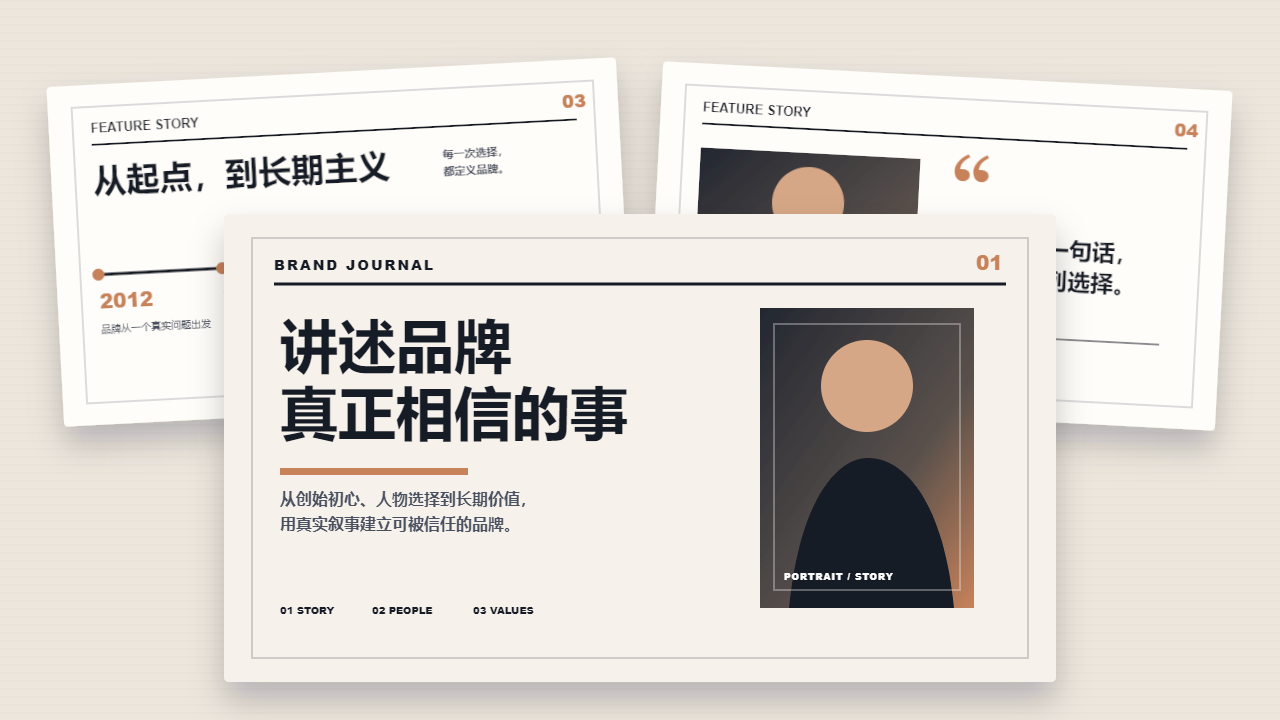
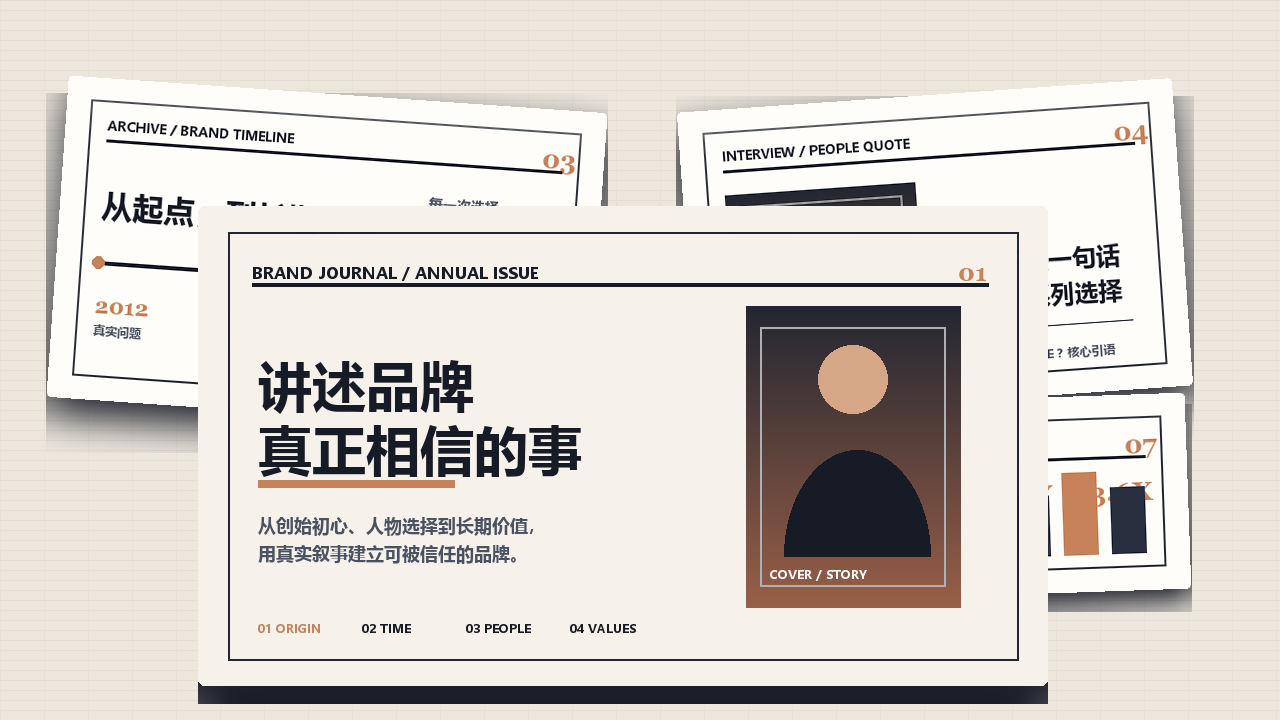
feat(ppt-template): 重构品牌故事编辑叙事模板

Changed region(s): [[0.0312, 0.0611, 0.9688, 0.9778], [0.5625, 0.3972, 0.7812, 0.8556], [0.625, 0.4889, 0.6562, 0.5194]]

diff --git a/ppt-ai-app/src/ppt-exporter.js b/ppt-ai-app/src/ppt-exporter.js
@@ -14927,10 +14927,11 @@ function brandIdentityCompactText(text, fallback, maxLength) {
 function brandStoryEditorialDecorationsXml({ visual, index, slide, total }) {
   const scene = brandStoryEditorialExportScene({ slide, index, total });
   const common = lineFrameShapeXml({ id: 400, name: "Editorial Paper Frame", x: 292608, y: 164592, cx: 8558784, cy: 4814316, stroke: blendHexColor(visual.primary, visual.background, 0.38), width: 11430 })
-    + textShapeXml({ id: 401, name: "Editorial Masthead", x: 475488, y: 266700, cx: 2438400, cy: 213360, text: scene.kicker, size: 700, bold: true, color: visual.title })
+    + textShapeXml({ id: 401, name: "Editorial Masthead", x: 475488, y: 266700, cx: 3048000, cy: 213360, text: `${scene.kicker} / ${scene.sectionLabel}`, size: 700, bold: true, color: visual.title })
     + textShapeXml({ id: 402, name: "Editorial Folio", x: 8052120, y: 266700, cx: 396240, cy: 213360, text: scene.folio, size: 900, bold: true, color: visual.accent })
     + rectShapeXml({ id: 403, name: "Editorial Masthead Rule", x: 475488, y: 533400, cx: 8193024, cy: 22860, fill: visual.title })
-    + textShapeXml({ id: 404, name: "Editorial Running Title", x: 475488, y: 4655820, cx: 2133600, cy: 182880, text: scene.deckTitle, size: 600, bold: true, color: blendHexColor(visual.body, visual.background, 0.28) });
+    + textShapeXml({ id: 404, name: "Editorial Running Title", x: 475488, y: 4655820, cx: 2133600, cy: 182880, text: scene.deckTitle, size: 600, bold: true, color: blendHexColor(visual.body, visual.background, 0.28) })
+    + brandStoryEditorialSectionIndexXml({ visual, scene });
   if (scene.role === "cover") return common + brandStoryEditorialCoverXml({ visual, scene });
   if (scene.role === "opener") return common + brandStoryEditorialOpenerXml({ visual, scene });
   if (scene.role === "timeline") return common + brandStoryEditorialTimelineXml({ visual, scene });
@@ -14945,8 +14946,8 @@ function brandStoryEditorialCoverXml({ visual, scene }) {
   return textShapeXml({ id: 410, name: "Editorial Cover Title", x: 640080, y: 1219200, cx: 3962400, cy: 1280160, text: scene.title, size: 3600, bold: true, color: visual.title })
     + rectShapeXml({ id: 411, name: "Editorial Cover Accent Rule", x: 640080, y: 2743200, cx: 2133600, cy: 45720, fill: visual.accent })
     + textShapeXml({ id: 412, name: "Editorial Cover Lead", x: 640080, y: 2872740, cx: 3200400, cy: 731520, text: scene.lead, size: 980, bold: false, color: visual.body })
-    + brandStoryEditorialPortraitXml({ visual, x: 5257800, y: 800100, cx: 2773680, cy: 3657600, id: 420 })
-    + ["01  STORY", "02  PEOPLE", "03  VALUES"].map((label, itemIndex) => textShapeXml({ id: 430 + itemIndex, name: `Editorial Cover Index ${itemIndex + 1}`, x: 640080 + itemIndex * 914400, y: 4114800, cx: 822960, cy: 182880, text: label, size: 620, bold: true, color: visual.title })).join("");
+    + brandStoryEditorialPortraitXml({ visual, x: 5257800, y: 800100, cx: 2773680, cy: 3657600, id: 420, caption: brandStoryEditorialPhotoCaption(scene.role) })
+    + scene.sections.slice(0, 3).map((item, itemIndex) => textShapeXml({ id: 430 + itemIndex, name: `Editorial Cover Index ${itemIndex + 1}`, x: 640080 + itemIndex * 914400, y: 4114800, cx: 822960, cy: 182880, text: item.label, size: 620, bold: true, color: item.active ? visual.accent : visual.title })).join("");
 }
 
 function brandStoryEditorialOpenerXml({ visual, scene }) {
@@ -14974,12 +14975,12 @@ function brandStoryEditorialTimelineXml({ visual, scene }) {
 }
 
 function brandStoryEditorialInterviewXml({ visual, scene }) {
-  return brandStoryEditorialPortraitXml({ visual, x: 640080, y: 800100, cx: 3352800, cy: 3657600, id: 420 })
+  return brandStoryEditorialPortraitXml({ visual, x: 640080, y: 800100, cx: 3352800, cy: 3657600, id: 420, caption: brandStoryEditorialPhotoCaption(scene.role) })
     + textShapeXml({ id: 410, name: "Editorial Interview Quote Mark", x: 4495800, y: 777240, cx: 762000, cy: 762000, text: "“", size: 6800, bold: true, color: visual.accent })
     + textShapeXml({ id: 411, name: "Editorial Interview Title", x: 4495800, y: 1447800, cx: 3505200, cy: 731520, text: scene.title, size: 2250, bold: true, color: visual.title })
     + textShapeXml({ id: 412, name: "Editorial Interview Quote", x: 4495800, y: 2286000, cx: 3505200, cy: 1371600, text: scene.lead, size: 1450, bold: true, color: visual.title })
     + rectShapeXml({ id: 413, name: "Editorial Interview Byline Rule", x: 4495800, y: 3962400, cx: 3505200, cy: 22860, fill: visual.title })
-    + textShapeXml({ id: 414, name: "Editorial Interview Byline", x: 4495800, y: 4076700, cx: 2438400, cy: 182880, text: "人物专访 · 核心观点", size: 650, bold: true, color: visual.body });
+    + textShapeXml({ id: 414, name: "Editorial Interview Byline", x: 4495800, y: 4076700, cx: 3048000, cy: 182880, text: `${scene.sectionLabel} · ${brandStoryEditorialByline(scene.role)}`, size: 650, bold: true, color: visual.body });
 }
 
 function brandStoryEditorialManifestoXml({ visual, scene }) {
@@ -14998,12 +14999,12 @@ function brandStoryEditorialManifestoXml({ visual, scene }) {
 }
 
 function brandStoryEditorialFeatureXml({ visual, scene }) {
-  return brandStoryEditorialPortraitXml({ visual, x: 640080, y: 800100, cx: 4572000, cy: 3505200, id: 420 })
+  return brandStoryEditorialPortraitXml({ visual, x: 640080, y: 800100, cx: 4572000, cy: 3505200, id: 420, caption: brandStoryEditorialPhotoCaption(scene.role) })
     + textShapeXml({ id: 410, name: "Editorial Feature Title", x: 5486400, y: 914400, cx: 2743200, cy: 731520, text: scene.title, size: 2250, bold: true, color: visual.title })
     + textShapeXml({ id: 411, name: "Editorial Feature Lead", x: 5486400, y: 1798320, cx: 2743200, cy: 731520, text: scene.lead, size: 900, bold: true, color: visual.body })
     + textShapeXml({ id: 412, name: "Editorial Feature Copy", x: 5486400, y: 2667000, cx: 2743200, cy: 1371600, text: scene.bullets.join("\n\n"), size: 720, bold: false, color: visual.body })
     + rectShapeXml({ id: 413, name: "Editorial Feature Caption Rule", x: 640080, y: 4427220, cx: 4572000, cy: 22860, fill: visual.title })
-    + textShapeXml({ id: 414, name: "Editorial Feature Caption", x: 640080, y: 4495800, cx: 3048000, cy: 152400, text: "图像记录品牌与人的真实连接", size: 600, bold: false, color: visual.body });
+    + textShapeXml({ id: 414, name: "Editorial Feature Caption", x: 640080, y: 4495800, cx: 3048000, cy: 152400, text: brandStoryEditorialByline(scene.role), size: 600, bold: false, color: visual.body });
 }
 
 function brandStoryEditorialEvidenceXml({ visual, scene }) {
@@ -15023,16 +15024,16 @@ function brandStoryEditorialClosingXml({ visual, scene }) {
   return rectShapeXml({ id: 410, name: "Editorial Closing Accent", x: 4236720, y: 1219200, cx: 685800, cy: 60960, fill: visual.accent })
     + textShapeXml({ id: 411, name: "Editorial Closing Title", x: 1371600, y: 1752600, cx: 6400800, cy: 1066800, text: scene.title, size: 3500, bold: true, color: visual.title })
     + textShapeXml({ id: 412, name: "Editorial Closing Quote", x: 2133600, y: 3048000, cx: 4876800, cy: 762000, text: scene.lead, size: 1250, bold: true, color: visual.body })
-    + textShapeXml({ id: 413, name: "Editorial Closing Label", x: 3352800, y: 4114800, cx: 2438400, cy: 182880, text: "THE STORY CONTINUES", size: 650, bold: true, color: visual.title });
+    + textShapeXml({ id: 413, name: "Editorial Closing Label", x: 3352800, y: 4114800, cx: 2743200, cy: 182880, text: `${scene.sectionLabel} / STORY CONTINUES`, size: 650, bold: true, color: visual.title });
 }
 
-function brandStoryEditorialPortraitXml({ visual, x, y, cx, cy, id }) {
+function brandStoryEditorialPortraitXml({ visual, x, y, cx, cy, id, caption }) {
   const skin = blendHexColor(visual.accent, "F1D0B6", 0.62);
   return solidShapeXml({ id, name: "Editorial Portrait Field", x, y, cx, cy, fill: blendHexColor(visual.primary, "59534D", 0.44) })
     + solidShapeXml({ id: id + 1, name: "Editorial Portrait Head", geom: "ellipse", x: x + Math.round(cx * 0.34), y: y + Math.round(cy * 0.12), cx: Math.round(cx * 0.28), cy: Math.round(cx * 0.28), fill: skin })
     + solidShapeXml({ id: id + 2, name: "Editorial Portrait Body", geom: "roundRect", x: x + Math.round(cx * 0.18), y: y + Math.round(cy * 0.44), cx: Math.round(cx * 0.64), cy: Math.round(cy * 0.62), fill: blendHexColor(visual.primary, "15171D", 0.28) })
     + lineFrameShapeXml({ id: id + 3, name: "Editorial Portrait Crop Frame", x: x + Math.round(cx * 0.07), y: y + Math.round(cy * 0.07), cx: Math.round(cx * 0.86), cy: Math.round(cy * 0.86), stroke: "FFFFFF", width: 11430, transparency: 24000 })
-    + textShapeXml({ id: id + 4, name: "Editorial Portrait Caption", x: x + Math.round(cx * 0.10), y: y + Math.round(cy * 0.86), cx: Math.round(cx * 0.70), cy: 152400, text: "PORTRAIT / STORY", size: 560, bold: true, color: "FFFFFF" });
+    + textShapeXml({ id: id + 4, name: "Editorial Portrait Caption", x: x + Math.round(cx * 0.10), y: y + Math.round(cy * 0.86), cx: Math.round(cx * 0.70), cy: 152400, text: caption || "FIELD / BRAND", size: 560, bold: true, color: "FFFFFF" });
 }
 
 function brandStoryEditorialExportScene({ slide, index, total }) {
@@ -15054,12 +15055,74 @@ function brandStoryEditorialExportScene({ slide, index, total }) {
   return {
     role,
     folio: String(index + 1).padStart(2, "0"),
-    kicker: role === "cover" ? "BRAND JOURNAL" : role === "closing" ? "NEXT CHAPTER" : "FEATURE STORY",
+    kicker: brandStoryEditorialKicker(role),
+    sectionLabel: brandStoryEditorialSectionLabel(role),
     title: brandStoryEditorialExportCompactText(slide?.title, index === 0 ? "品牌的下一段故事" : "品牌故事", role === "cover" ? 34 : 30),
     deckTitle: brandStoryEditorialExportCompactText(slide?.title, "品牌故事", 16),
     lead: brandStoryEditorialExportCompactText(bullets[0], "以真实的人、时间和选择，讲述品牌如何形成长期价值。", role === "interview" ? 54 : 48),
     bullets: bullets.slice(0, 4).map((item) => brandStoryEditorialExportCompactText(item, "", 46)),
+    sections: brandStoryEditorialSections(role),
   };
+}
+
+function brandStoryEditorialSectionIndexXml({ visual, scene }) {
+  return scene.sections.map((item, itemIndex) => textShapeXml({
+    id: 460 + itemIndex,
+    name: `Editorial Section Index ${itemIndex + 1}`,
+    x: 5791200 + itemIndex * 685800,
+    y: 4655820,
+    cx: 640080,
+    cy: 182880,
+    text: item.label,
+    size: 520,
+    bold: true,
+    color: item.active ? visual.accent : blendHexColor(visual.body, visual.background, 0.32),
+  })).join("");
+}
+
+function brandStoryEditorialKicker(role) {
+  if (role === "cover") return "BRAND JOURNAL";
+  if (role === "timeline") return "ARCHIVE";
+  if (role === "interview") return "INTERVIEW";
+  if (role === "manifesto") return "MANIFESTO";
+  if (role === "evidence") return "PROOF";
+  if (role === "closing") return "NEXT CHAPTER";
+  return "FEATURE STORY";
+}
+
+function brandStoryEditorialSectionLabel(role) {
+  const labels = {
+    cover: "ANNUAL ISSUE",
+    opener: "ORIGIN STORY",
+    timeline: "BRAND TIMELINE",
+    interview: "PEOPLE QUOTE",
+    manifesto: "VALUE CLAIM",
+    feature: "PHOTO ESSAY",
+    evidence: "VALUE PROOF",
+    closing: "EDITORIAL END",
+  };
+  return labels[role] || labels.feature;
+}
+
+function brandStoryEditorialSections(role) {
+  return [
+    { label: "01 ORIGIN", match: ["cover", "opener"] },
+    { label: "02 TIME", match: ["timeline"] },
+    { label: "03 PEOPLE", match: ["interview", "feature"] },
+    { label: "04 VALUES", match: ["manifesto", "evidence", "closing"] },
+  ].map((item) => ({ label: item.label, active: item.match.includes(role) }));
+}
+
+function brandStoryEditorialPhotoCaption(role) {
+  if (role === "cover") return "COVER / STORY";
+  if (role === "interview") return "PORTRAIT / QUOTE";
+  return "FIELD / BRAND";
+}
+
+function brandStoryEditorialByline(role) {
+  if (role === "interview") return "核心引语";
+  if (role === "feature") return "场景记录与图文混排";
+  return "品牌与人的真实连接";
 }
 
 function brandStoryEditorialExportBullets(slide) {

diff --git a/ppt-ai-app/src/ppt-service.js b/ppt-ai-app/src/ppt-service.js
@@ -3605,6 +3605,9 @@ function renderDeckPreview({ deck, visual }) {
     body[data-layout="brand-story-editorial"] .editorial-masthead{position:absolute;left:5.2%;right:5.2%;top:5.2%;display:flex;justify-content:space-between;align-items:center;padding-bottom:8px;border-bottom:2px solid var(--template-title);font-size:10px;font-weight:900;letter-spacing:.14em;}
     body[data-layout="brand-story-editorial"] .editorial-masthead b{font-size:13px;color:var(--template-accent);letter-spacing:0;}
     body[data-layout="brand-story-editorial"] .editorial-running-title{position:absolute;left:5.2%;bottom:4.8%;font-size:9px;font-weight:800;letter-spacing:.08em;color:rgba(23,27,38,.52);}
+    body[data-layout="brand-story-editorial"] .editorial-section-index{position:absolute;right:5.2%;bottom:4.8%;display:flex;gap:10px;align-items:center;font-size:8px;font-weight:900;letter-spacing:.08em;color:rgba(23,27,38,.66);}
+    body[data-layout="brand-story-editorial"] .editorial-section-index span{padding-left:10px;border-left:1px solid rgba(23,27,38,.28);}
+    body[data-layout="brand-story-editorial"] .editorial-section-index span.is-active{color:var(--template-accent);}
     body[data-layout="brand-story-editorial"] .editorial-title{margin:0;color:var(--template-title);font-size:42px;line-height:1.02;font-weight:900;letter-spacing:0;overflow-wrap:anywhere;}
     body[data-layout="brand-story-editorial"] .editorial-lead{margin:0;color:var(--template-body);font-size:14px;line-height:1.58;font-weight:600;}
     body[data-layout="brand-story-editorial"] .editorial-copy{margin:0;padding:0;list-style:none;max-width:none;font-size:12px;line-height:1.6;}
@@ -3617,6 +3620,7 @@ function renderDeckPreview({ deck, visual }) {
     body[data-layout="brand-story-editorial"] .editorial-photo span:nth-child(2){right:7%;top:8%;width:1px;height:84%;}
     body[data-layout="brand-story-editorial"] .editorial-photo span:nth-child(3){left:7%;right:7%;bottom:8%;height:1px;}
     body[data-layout="brand-story-editorial"] .editorial-photo i{position:absolute;z-index:3;left:10%;bottom:11%;color:#fff;font-size:8px;font-style:normal;font-weight:900;letter-spacing:.12em;}
+    body[data-layout="brand-story-editorial"] .editorial-photo .editorial-grain{position:absolute;inset:0;z-index:1;background:repeating-linear-gradient(90deg,rgba(255,255,255,.06) 0 1px,transparent 1px 5px);mix-blend-mode:screen;}
     body[data-layout="brand-story-editorial"] .editorial-cover-grid{position:absolute;inset:14% 7% 9% 7%;display:grid;grid-template-columns:54% 40%;grid-template-rows:auto 1fr auto;gap:4% 6%;}
     body[data-layout="brand-story-editorial"] .editorial-cover-grid .editorial-title{font-size:54px;max-width:96%;align-self:end;}
     body[data-layout="brand-story-editorial"] .editorial-cover-grid .editorial-lead{align-self:start;max-width:86%;padding-top:12px;border-top:5px solid var(--template-accent);}
@@ -3627,6 +3631,7 @@ function renderDeckPreview({ deck, visual }) {
     body[data-layout="brand-story-editorial"] .editorial-opener .editorial-dropcap{grid-column:1;font-size:88px;line-height:.82;font-family:Georgia,serif;color:var(--template-accent);}
     body[data-layout="brand-story-editorial"] .editorial-opener .editorial-lead{grid-column:1;padding-top:11%;font-size:15px;}
     body[data-layout="brand-story-editorial"] .editorial-opener .editorial-copy{grid-column:2/4;grid-row:2;columns:2;column-gap:28px;border-top:1px solid var(--template-title);padding-top:12px;}
+    body[data-layout="brand-story-editorial"] .editorial-opener .editorial-copy li{break-inside:avoid;}
     body[data-layout="brand-story-editorial"] .editorial-columns{position:absolute;right:0;top:0;display:flex;gap:5px}.editorial-columns span{width:5px;height:34px;background:var(--template-accent)}
     body[data-layout="brand-story-editorial"] .editorial-timeline{position:absolute;inset:16% 7% 13%;}
     body[data-layout="brand-story-editorial"] .editorial-timeline .editorial-title{max-width:58%;font-size:43px;}
@@ -3653,6 +3658,7 @@ function renderDeckPreview({ deck, visual }) {
     body[data-layout="brand-story-editorial"] .editorial-feature .editorial-photo{grid-row:1;min-height:100%;}
     body[data-layout="brand-story-editorial"] .editorial-feature-copy{display:flex;flex-direction:column;gap:14px;}
     body[data-layout="brand-story-editorial"] .editorial-feature-copy .editorial-title{font-size:34px;}
+    body[data-layout="brand-story-editorial"] .editorial-feature-copy .editorial-copy{columns:1;}
     body[data-layout="brand-story-editorial"] .editorial-caption{grid-column:1;font-size:9px;border-top:1px solid var(--template-title);padding-top:7px;}
     body[data-layout="brand-story-editorial"] .editorial-evidence{position:absolute;inset:16% 7% 12%;}
     body[data-layout="brand-story-editorial"] .editorial-evidence .editorial-title{max-width:56%;font-size:42px;}
@@ -10128,40 +10134,88 @@ function brandStoryEditorialPreviewScene({ slide, index, total }) {
     variant: "editorial",
     role,
     folio: String(index + 1).padStart(2, "0"),
-    kicker: role === "cover" ? "BRAND JOURNAL" : role === "closing" ? "NEXT CHAPTER" : "FEATURE STORY",
+    kicker: brandStoryEditorialKicker(role),
+    sectionLabel: brandStoryEditorialSectionLabel(role),
     title: brandStoryEditorialCompactText(slide?.title, index === 0 ? "品牌的下一段故事" : "品牌故事", role === "cover" ? 34 : 30),
     deckTitle: brandStoryEditorialCompactText(slide?.title, "品牌故事", 16),
     lead: brandStoryEditorialCompactText(bullets[0], "以真实的人、时间和选择，讲述品牌如何形成长期价值。", role === "interview" ? 54 : 48),
     bullets: bullets.slice(0, 4).map((item) => brandStoryEditorialCompactText(item, "", 46)),
+    sections: brandStoryEditorialSections(role),
   };
 }
 
 function renderBrandStoryEditorialPreview(scene) {
   const bullets = scene.bullets.map((item) => `<li>${escapeHtml(item)}</li>`).join("");
-  const masthead = `<div class="editorial-masthead"><span>${escapeHtml(scene.kicker)}</span><b>${escapeHtml(scene.folio)}</b></div>`;
+  const masthead = `<div class="editorial-masthead"><span>${escapeHtml(scene.kicker)} / ${escapeHtml(scene.sectionLabel)}</span><b>${escapeHtml(scene.folio)}</b></div>`;
+  const sectionIndex = `<div class="editorial-section-index">${scene.sections.map((item) => `<span class="${item.active ? "is-active" : ""}">${escapeHtml(item.label)}</span>`).join("")}</div>`;
   const title = `<h2 class="editorial-title">${escapeHtml(scene.title)}</h2>`;
   const lead = `<p class="editorial-lead">${escapeHtml(scene.lead)}</p>`;
   const list = `<ul class="editorial-copy">${bullets}</ul>`;
-  const photo = `<div class="editorial-photo" aria-hidden="true"><span></span><span></span><span></span><i>PORTRAIT / STORY</i></div>`;
+  const photo = `<div class="editorial-photo" aria-hidden="true"><span></span><span></span><span></span><em class="editorial-grain"></em><i>${escapeHtml(brandStoryEditorialPhotoCaption(scene.role))}</i></div>`;
   let layout = "";
   if (scene.role === "cover") {
-    layout = `<div class="editorial-cover-grid">${title}${lead}<div class="editorial-cover-index"><span>01 STORY</span><span>02 PEOPLE</span><span>03 VALUES</span></div>${photo}</div>`;
+    layout = `<div class="editorial-cover-grid">${title}${lead}<div class="editorial-cover-index">${scene.sections.slice(0, 3).map((item) => `<span>${escapeHtml(item.label)}</span>`).join("")}</div>${photo}</div>`;
   } else if (scene.role === "opener") {
     layout = `<div class="editorial-opener">${title}<div class="editorial-dropcap">${escapeHtml(Array.from(scene.lead)[0] || "品")}</div>${lead}${list}<div class="editorial-columns"><span></span><span></span><span></span></div></div>`;
   } else if (scene.role === "timeline") {
     layout = `<div class="editorial-timeline">${title}${lead}<div class="editorial-timeline-track">${scene.bullets.slice(0, 4).map((item, itemIndex) => `<span><b>${String(2012 + itemIndex * 4)}</b><i>${escapeHtml(item)}</i></span>`).join("")}</div></div>`;
   } else if (scene.role === "interview") {
-    layout = `<div class="editorial-interview">${photo}<div class="editorial-quote-mark">“</div>${title}<blockquote>${escapeHtml(scene.lead)}</blockquote><div class="editorial-byline">人物专访 · 核心观点</div></div>`;
+    layout = `<div class="editorial-interview">${photo}<div class="editorial-quote-mark">“</div>${title}<blockquote>${escapeHtml(scene.lead)}</blockquote><div class="editorial-byline">${escapeHtml(scene.sectionLabel)} · ${escapeHtml(brandStoryEditorialByline(scene.role))}</div></div>`;
   } else if (scene.role === "manifesto") {
     layout = `<div class="editorial-manifesto"><div class="editorial-manifesto-number">${escapeHtml(scene.folio)}</div>${title}<blockquote>${escapeHtml(scene.lead)}</blockquote><div class="editorial-value-grid">${scene.bullets.slice(0, 3).map((item, itemIndex) => `<span><b>0${itemIndex + 1}</b>${escapeHtml(item)}</span>`).join("")}</div></div>`;
   } else if (scene.role === "evidence") {
     layout = `<div class="editorial-evidence">${title}${lead}<div class="editorial-metric-grid">${scene.bullets.slice(0, 3).map((item, itemIndex) => `<span><b>${["68%", "12Y", "3.6X"][itemIndex]}</b>${escapeHtml(item)}</span>`).join("")}</div><div class="editorial-bar-chart"><i></i><i></i><i></i><i></i><i></i></div></div>`;
   } else if (scene.role === "closing") {
-    layout = `<div class="editorial-closing"><div class="editorial-closing-rule"></div>${title}<blockquote>${escapeHtml(scene.lead)}</blockquote><span>THE STORY CONTINUES</span></div>`;
+    layout = `<div class="editorial-closing"><div class="editorial-closing-rule"></div>${title}<blockquote>${escapeHtml(scene.lead)}</blockquote><span>${escapeHtml(scene.sectionLabel)} / STORY CONTINUES</span></div>`;
   } else {
-    layout = `<div class="editorial-feature">${photo}<div class="editorial-feature-copy">${title}${lead}${list}</div><div class="editorial-caption">图像记录品牌与人的真实连接</div></div>`;
+    layout = `<div class="editorial-feature">${photo}<div class="editorial-feature-copy">${title}${lead}${list}</div><div class="editorial-caption">${escapeHtml(brandStoryEditorialByline(scene.role))}</div></div>`;
   }
-  return `<div class="editorial-layer editorial-role-${scene.role}">${masthead}${layout}<div class="editorial-running-title">${escapeHtml(scene.deckTitle)}</div></div>`;
+  return `<div class="editorial-layer editorial-role-${scene.role}">${masthead}${layout}<div class="editorial-running-title">${escapeHtml(scene.deckTitle)}</div>${sectionIndex}</div>`;
+}
+
+function brandStoryEditorialKicker(role) {
+  if (role === "cover") return "BRAND JOURNAL";
+  if (role === "timeline") return "ARCHIVE";
+  if (role === "interview") return "INTERVIEW";
+  if (role === "manifesto") return "MANIFESTO";
+  if (role === "evidence") return "PROOF";
+  if (role === "closing") return "NEXT CHAPTER";
+  return "FEATURE STORY";
+}
+
+function brandStoryEditorialSectionLabel(role) {
+  const labels = {
+    cover: "ANNUAL ISSUE",
+    opener: "ORIGIN STORY",
+    timeline: "BRAND TIMELINE",
+    interview: "PEOPLE QUOTE",
+    manifesto: "VALUE CLAIM",
+    feature: "PHOTO ESSAY",
+    evidence: "VALUE PROOF",
+    closing: "EDITORIAL END",
+  };
+  return labels[role] || labels.feature;
+}
+
+function brandStoryEditorialSections(role) {
+  return [
+    { label: "01 ORIGIN", match: ["cover", "opener"] },
+    { label: "02 TIME", match: ["timeline"] },
+    { label: "03 PEOPLE", match: ["interview", "feature"] },
+    { label: "04 VALUES", match: ["manifesto", "evidence", "closing"] },
+  ].map((item) => ({ label: item.label, active: item.match.includes(role) }));
+}
+
+function brandStoryEditorialPhotoCaption(role) {
+  if (role === "cover") return "COVER / STORY";
+  if (role === "interview") return "PORTRAIT / QUOTE";
+  return "FIELD / BRAND";
+}
+
+function brandStoryEditorialByline(role) {
+  if (role === "interview") return "核心引语";
+  if (role === "feature") return "场景记录与图文混排";
+  return "品牌与人的真实连接";
 }
 
 function brandStoryEditorialBulletTexts(slide) {

diff --git a/ppt-ai-app/src/app.js b/ppt-ai-app/src/app.js
@@ -1274,6 +1274,19 @@ function renderWorkspace({ defaultEntitlementId } = {}) {
     .template-thumb[data-layout="marketing"] .template-thumb-image { right: 9%; top: 25%; width: 23%; height: 42%; border-radius: 15px; background: linear-gradient(135deg,#fff,color-mix(in srgb,var(--thumb-bg) 70%,#fff 30%)); box-shadow: 0 14px 24px rgba(15,23,42,.16); }
     .template-thumb[data-layout="marketing"] .template-thumb-wave { height: 22%; background: linear-gradient(90deg, color-mix(in srgb, var(--thumb-primary) 80%, transparent), color-mix(in srgb, var(--thumb-accent) 72%, transparent)); clip-path: polygon(0 62%, 18% 48%, 35% 58%, 55% 40%, 76% 54%, 100% 38%, 100% 100%, 0 100%); }
     .template-thumb[data-layout="marketing"] .template-thumb-tag { background: var(--thumb-accent); color: #fff; }
+    .template-thumb[data-layout="brand-story-editorial"] { background: linear-gradient(135deg, #ece6dd 0%, #f8f3ea 58%, #dfd5c8 100%); }
+    .template-thumb[data-layout="brand-story-editorial"]::before { background: repeating-linear-gradient(0deg, rgba(23,27,38,.035) 0 1px, transparent 1px 7px), repeating-linear-gradient(90deg, rgba(23,27,38,.025) 0 1px, transparent 1px 32px); }
+    .template-thumb[data-layout="brand-story-editorial"] .template-thumb-back { left: 8%; right: 10%; top: 10%; bottom: 20%; border-radius: 2px; background: #fffdf9; border: 1px solid rgba(42,47,63,.22); transform: rotate(-5deg); box-shadow: 0 16px 26px rgba(23,27,38,.12); }
+    .template-thumb[data-layout="brand-story-editorial"] .template-thumb-cover { left: 14%; right: 20%; top: 18%; bottom: 13%; border-radius: 2px; background: #f6f1ea; border: 1px solid rgba(42,47,63,.28); box-shadow: 0 18px 34px rgba(23,27,38,.16); }
+    .template-thumb[data-layout="brand-story-editorial"] .template-thumb-cover::before { content: ""; position: absolute; left: 10%; right: 9%; top: 13%; height: 2px; background: var(--thumb-title); box-shadow: 0 22px 0 rgba(199,130,90,.85), 0 82px 0 rgba(23,27,38,.18), 0 108px 0 rgba(23,27,38,.12); }
+    .template-thumb[data-layout="brand-story-editorial"] .template-thumb-content { left: 20%; top: 33%; width: 38%; color: var(--thumb-title); }
+    .template-thumb[data-layout="brand-story-editorial"] .template-thumb-heading { max-width: 100%; font-size: 18px; line-height: .96; color: var(--thumb-title); text-shadow: none; }
+    .template-thumb[data-layout="brand-story-editorial"] .template-thumb-summary { color: var(--thumb-body); max-width: 100%; }
+    .template-thumb[data-layout="brand-story-editorial"] .template-thumb-image { right: 24%; top: 31%; width: 20%; height: 38%; border-radius: 0; background: linear-gradient(145deg, #232731, #5a514c 62%, #c7825a); box-shadow: 8px 9px 0 rgba(199,130,90,.18); opacity: 1; }
+    .template-thumb[data-layout="brand-story-editorial"] .template-thumb-image::before { background: radial-gradient(circle at 50% 24%, #d5a786 0 14%, transparent 15%), radial-gradient(ellipse at 50% 86%, #171b26 0 36%, transparent 37%); }
+    .template-thumb[data-layout="brand-story-editorial"] .template-thumb-band { left: 19%; right: 45%; top: 72%; bottom: auto; height: 2px; background: var(--thumb-title); }
+    .template-thumb[data-layout="brand-story-editorial"] .template-thumb-wave { left: 20%; right: 42%; bottom: 19%; height: 10%; background: linear-gradient(90deg, var(--thumb-accent) 0 8%, transparent 8% 26%, var(--thumb-title) 26% 34%, transparent 34% 52%, var(--thumb-accent) 52% 60%, transparent 60%); clip-path: none; opacity: .9; }
+    .template-thumb[data-layout="brand-story-editorial"] .template-thumb-tag { background: var(--thumb-title); color: #fffdf9; border-radius: 0; }
     .template-thumb[data-layout="luxury-brand-story"] { background: linear-gradient(135deg, #f6f1e8 0%, #fffefa 52%, #e6dbc8 100%); }
     .template-thumb[data-layout="luxury-brand-story"]::before { background: radial-gradient(circle at 74% 22%, rgba(191,160,106,.24), transparent 24%), repeating-linear-gradient(90deg, rgba(24,28,36,.06) 0 1px, transparent 1px 34px), repeating-linear-gradient(0deg, rgba(24,28,36,.04) 0 1px, transparent 1px 30px); }
     .template-thumb[data-layout="luxury-brand-story"] .template-thumb-cover { left: 8%; right: 36%; top: 18%; bottom: 20%; border-radius: 0; background: linear-gradient(135deg, #fffefa, #f6f1e8); border: 1px solid rgba(191,160,106,.42); box-shadow: 0 18px 34px rgba(24,28,36,.14); }
@@ -2540,7 +2553,7 @@ function renderWorkspace({ defaultEntitlementId } = {}) {
         surface: normalizeHexColor(visual.surface, "FFFFFF"),
         title: normalizeHexColor(visual.title, "0F172A"),
         body: normalizeHexColor(visual.body, "475569"),
-        layout: ["top-band", "left-rail", "hero", "executive", "academy", "venture", "marketing", "social-video-growth", "pre-a-market-validation", "status-report", "red-gold", "education-course", "public-course-enrollment", "feature-priority-matrix", "experience-journey-map", "capability-radar-map", "product-interview-insight", "investor-update-progress-sync", "pitch-project-return", "enterprise-digital-blueprint", "business-model-value-chain", "product-pricing-strategy", "channel-recruitment-policy", "operating-problem-tree", "knowledge-blackboard", "exam-review-keypoints", "corporate-training", "onboarding-guide", "annual-summary", "quarterly-dashboard", "quarterly-diagnosis", "quarterly-action-loop", "industry-research", "industry-trend-forecast", "strategy-swot-map", "strategy-region-entry", "sales-key-account-decision-chain", "sales-training-objection-handling", "presales-architecture-solution", "bi-executive-cockpit", "user-path-funnel", "market-trend-radar", "channel-traffic-quality", "data-governance-standard", "brand-identity-system", "luxury-brand-story"].includes(visual.layout) ? visual.layout : "top-band",
+        layout: ["top-band", "left-rail", "hero", "executive", "academy", "venture", "marketing", "social-video-growth", "pre-a-market-validation", "status-report", "red-gold", "education-course", "public-course-enrollment", "feature-priority-matrix", "experience-journey-map", "capability-radar-map", "product-interview-insight", "investor-update-progress-sync", "pitch-project-return", "enterprise-digital-blueprint", "business-model-value-chain", "product-pricing-strategy", "channel-recruitment-policy", "operating-problem-tree", "knowledge-blackboard", "exam-review-keypoints", "corporate-training", "onboarding-guide", "annual-summary", "quarterly-dashboard", "quarterly-diagnosis", "quarterly-action-loop", "industry-research", "industry-trend-forecast", "strategy-swot-map", "strategy-region-entry", "sales-key-account-decision-chain", "sales-training-objection-handling", "presales-architecture-solution", "bi-executive-cockpit", "user-path-funnel", "market-trend-radar", "channel-traffic-quality", "data-governance-standard", "brand-story-editorial", "brand-identity-system", "luxury-brand-story"].includes(visual.layout) ? visual.layout : "top-band",
         variant: typeof visual.variant === "string" ? visual.variant : ""
       };
     }
@@ -2554,7 +2567,7 @@ function renderWorkspace({ defaultEntitlementId } = {}) {
         surface: normalizeHexColor(theme.visual.surface, baseVisual.surface),
         title: normalizeHexColor(theme.visual.title, baseVisual.title),
         body: normalizeHexColor(theme.visual.body, baseVisual.body),
-        layout: ["top-band", "left-rail", "hero", "executive", "academy", "venture", "marketing", "social-video-growth", "pre-a-market-validation", "status-report", "red-gold", "education-course", "public-course-enrollment", "feature-priority-matrix", "experience-journey-map", "capability-radar-map", "product-interview-insight", "investor-update-progress-sync", "pitch-project-return", "enterprise-digital-blueprint", "business-model-value-chain", "product-pricing-strategy", "channel-recruitment-policy", "operating-problem-tree", "knowledge-blackboard", "exam-review-keypoints", "corporate-training", "onboarding-guide", "annual-summary", "quarterly-dashboard", "quarterly-diagnosis", "quarterly-action-loop", "industry-research", "industry-trend-forecast", "strategy-swot-map", "strategy-region-entry", "sales-key-account-decision-chain", "sales-training-objection-handling", "presales-architecture-solution", "bi-executive-cockpit", "user-path-funnel", "market-trend-radar", "channel-traffic-quality", "data-governance-standard", "brand-identity-system", "luxury-brand-story"].includes(theme.visual.layout)
+        layout: ["top-band", "left-rail", "hero", "executive", "academy", "venture", "marketing", "social-video-growth", "pre-a-market-validation", "status-report", "red-gold", "education-course", "public-course-enrollment", "feature-priority-matrix", "experience-journey-map", "capability-radar-map", "product-interview-insight", "investor-update-progress-sync", "pitch-project-return", "enterprise-digital-blueprint", "business-model-value-chain", "product-pricing-strategy", "channel-recruitment-policy", "operating-problem-tree", "knowledge-blackboard", "exam-review-keypoints", "corporate-training", "onboarding-guide", "annual-summary", "quarterly-dashboard", "quarterly-diagnosis", "quarterly-action-loop", "industry-research", "industry-trend-forecast", "strategy-swot-map", "strategy-region-entry", "sales-key-account-decision-chain", "sales-training-objection-handling", "presales-architecture-solution", "bi-executive-cockpit", "user-path-funnel", "market-trend-radar", "channel-traffic-quality", "data-governance-standard", "brand-story-editorial", "brand-identity-system", "luxury-brand-story"].includes(theme.visual.layout)
           ? theme.visual.layout
           : baseVisual.layout,
         variant: typeof theme.visual.variant === "string" ? theme.visual.variant : baseVisual.variant,

diff --git a/ppt-ai-app/test/ppt-business.test.js b/ppt-ai-app/test/ppt-business.test.js
@@ -145,7 +145,7 @@ test("PptService renders growth marketing lab preview with dedicated layout", as
   const outline = await context.pptService.generateOutline({
     ownerUserId: 7,
     topic: "用户增长实验复盘",
-    slideCount: 4,
+    slideCount: 7,
     templateId: "marketing-campaign",
     theme: "growth",
   });
@@ -154,7 +154,13 @@ test("PptService renders growth marketing lab preview with dedicated layout", as
   const preview = await context.pptService.previewDeck({ ownerUserId: 7, deckId: deck.id });
 
   assert.match(preview, /data-layout="growth-marketing-lab"/);
-  assert.match(preview, /growth-lab-wheel|growth-lab-funnel|growth-lab-matrix/);
+  assert.match(preview, /growth-lab-wheel/);
+  assert.match(preview, /growth-lab-funnel/);
+  assert.match(preview, /growth-lab-matrix/);
+  assert.match(preview, /growth-lab-experiment/);
+  assert.match(preview, /growth-lab-roi/);
+  assert.match(preview, /growth-lab-priority/);
+  assert.match(preview, /AARRR 漏斗|渠道矩阵|实验卡片|趋势 ROI|行动优先级/);
   assert.doesNotMatch(preview, /增长营销/);
 });
 
@@ -175,7 +181,8 @@ test("PptService renders brand communication preview without theme labels", asyn
   assert.match(preview, /<body data-template="marketing-campaign" data-layout="marketing-brand-communication-console"/);
   assert.match(preview, /brand-comms-layer/);
   assert.match(preview, /brand-comms-content-matrix|brand-comms-touchpoint-map|brand-comms-dashboard/);
-  assert.match(preview, /COMMS CONTROL|MESSAGE HOUSE|MEDIA TOUCHPOINTS/);
+  assert.match(preview, /COMMS CONTROL|MESSAGE HOUSE|TOUCHPOINT MAP/);
+  assert.match(preview, /#172033|#e64b6a|#21a6a1/i);
   assert.doesNotMatch(preview, />品牌传播</);
   assert.doesNotMatch(preview, /<div class="slide-content"><h2/);
 });
@@ -225,6 +232,9 @@ test("PptService renders editorial brand story preview with distinct magazine pa
   assert.match(preview, /editorial-role-evidence/);
   assert.match(preview, /editorial-role-closing/);
   assert.match(preview, /BRAND JOURNAL|FEATURE STORY|NEXT CHAPTER/);
+  assert.match(preview, /01 ORIGIN/);
+  assert.match(preview, /04 VALUES/);
+  assert.match(preview, /PEOPLE QUOTE|VALUE CLAIM|VALUE PROOF/);
   assert.doesNotMatch(preview, />编辑叙事</);
   assert.doesNotMatch(preview, /<div class="slide-content"><h2/);
 });

diff --git a/ppt-ai-app/test/brand-story-editorial-template.test.js b/ppt-ai-app/test/brand-story-editorial-template.test.js
@@ -50,10 +50,12 @@ test("编辑叙事 PPTX 为八类页面输出独立且可编辑的 DrawingML 图
     "Editorial Feature Title",
     "Editorial Evidence Title",
     "Editorial Closing Title",
+    "Editorial Section Index 1",
   ]) {
     assert.match(text, new RegExp(marker));
   }
   assert.match(text, /Editorial Portrait Field/);
+  assert.match(text, /ANNUAL ISSUE|PEOPLE QUOTE|VALUE CLAIM/);
   assert.match(text, /Editorial Timeline Node 1/);
   assert.match(text, /Editorial Evidence Card 1/);
   assert.doesNotMatch(text, />编辑叙事</);

diff --git a/templates/official/marketing/brand-story/editorial/assets/README.md b/templates/official/marketing/brand-story/editorial/assets/README.md
@@ -1,5 +1,5 @@
 # 编辑叙事素材说明
 
-- `editorial-catalog-source.svg`：模板管理缩略图的可维护源文件，展示封面、历程和人物专访三种代表页型。
-- 页面主体由 `ppt-service.js` 和 `ppt-exporter.js` 使用代码绘制，SVG 不会作为整页 PPT 背景。
-- `thumbnail.png` 位于主题目录根部，由上述 SVG 渲染生成，并通过 `manifest.json` 的 `thumbnail_file` 同步到对象存储。
+- `editorial-catalog-source.svg`：模板管理缩略图的可维护源文件，展示封面、品牌历程、人物引语和价值证据四类代表页型。
+- `thumbnail.png` 位于主题目录根部，由上述 SVG 的视觉系统重新绘制生成，并通过 `manifest.json` 的 `thumbnail_file` 同步到对象存储。
+- 页面主体仍由 `ppt-service.js` 和 `ppt-exporter.js` 使用代码绘制；SVG/PNG 只用于模板目录和管理端缩略图，不作为整页 PPT 背景。
